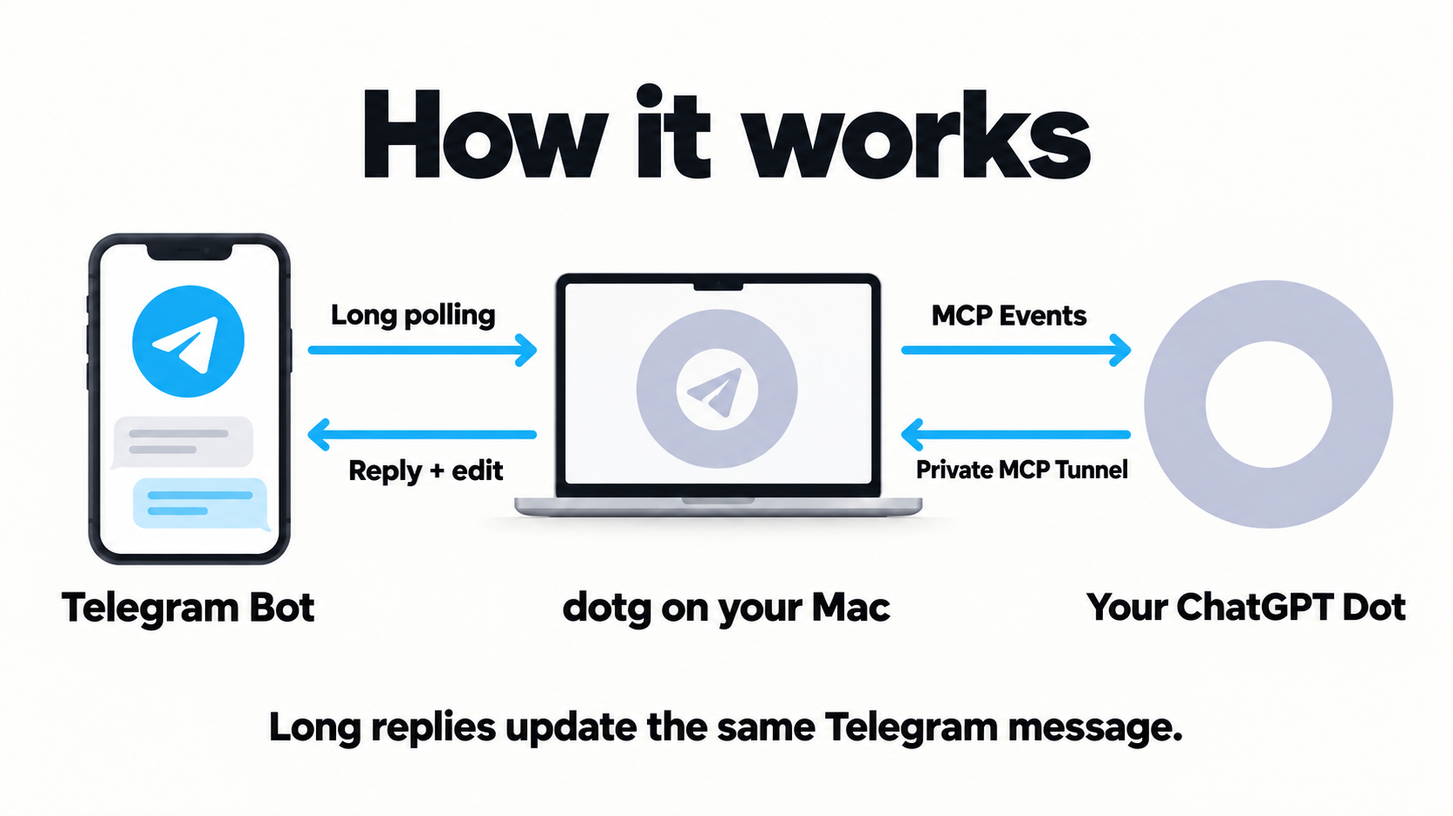
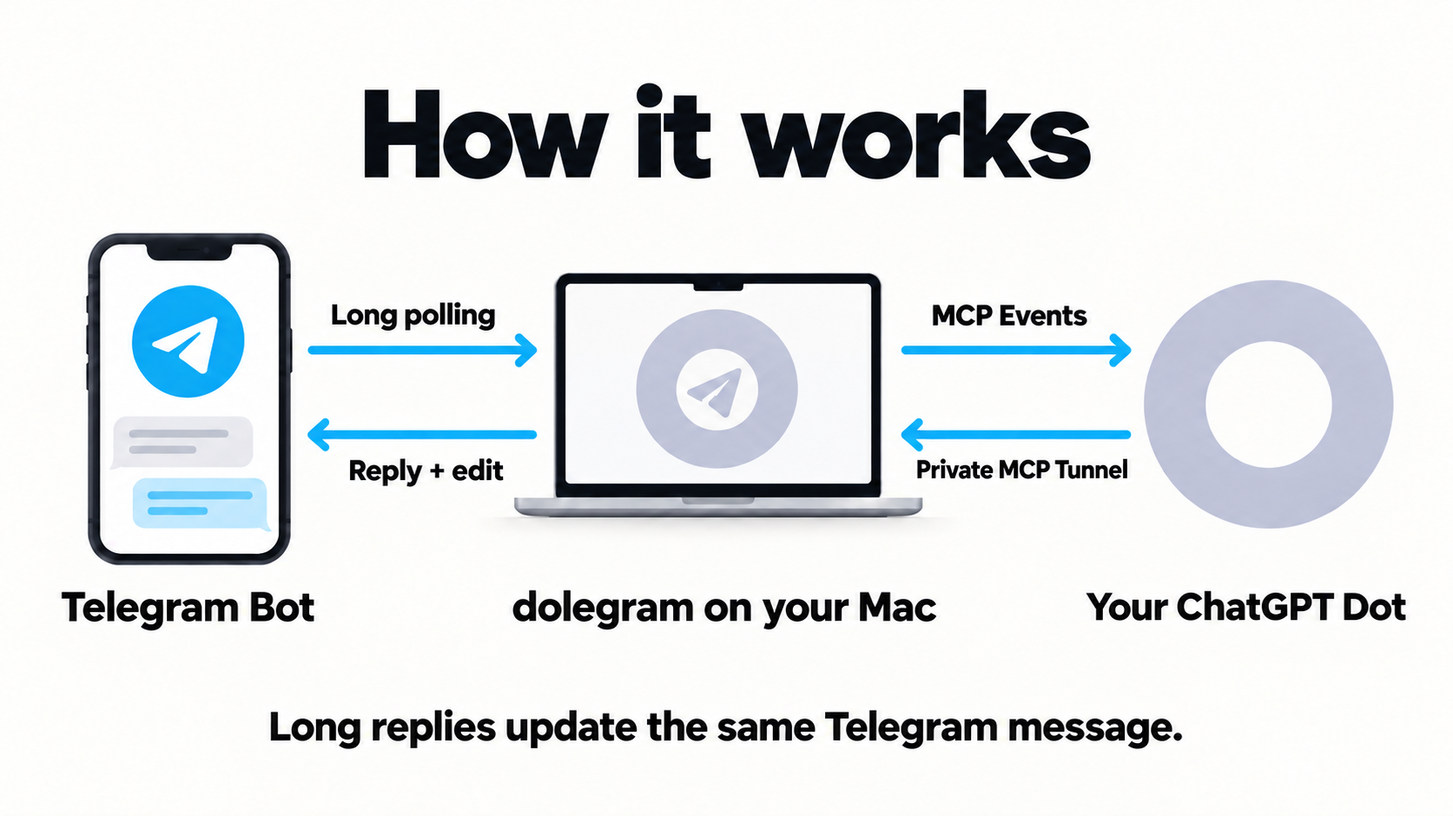
Rename the public project to dolegram with compatible runtime identities

diff --git a/scripts/prepare-plugin.py b/scripts/prepare-plugin.py
@@ -15,11 +15,11 @@ def main():
     url = urlparse(args.endpoint)
     if url.scheme != 'https' or not url.hostname or url.username or url.password or url.fragment or url.query or url.path != '/mcp' or url.hostname.endswith('.invalid') or url.port not in (None, 443):
         parser.error('Use a verified HTTPS /mcp endpoint without credentials, query, fragment, or a nonstandard port.')
-    source = Path(__file__).resolve().parent.parent / 'plugin-template' / 'dotg'
+    source = Path(__file__).resolve().parent.parent / 'plugin-template' / 'dolegram'
     output = Path(args.output)
     shutil.copytree(source, output)
     manifest = json.loads((output / 'mcp.json.example').read_text())
-    manifest['mcpServers']['dotg']['url'] = args.endpoint
+    manifest['mcpServers']['dolegram']['url'] = args.endpoint
     (output / 'mcp.json').write_text(json.dumps(manifest, indent=2) + '\n')
     (output / 'mcp.json.example').unlink()
     print('Prepared package files only. Endpoint reachability, upload, installation and subscription are not verified.')

diff --git a/TUNNEL.md b/TUNNEL.md
@@ -8,9 +8,9 @@ Live acceptance has shown variable delays between callback acceptance and the fi
 
 1. A dedicated OpenAI Secure MCP Tunnel forwards authenticated MCP JSON-RPC requests to `http://127.0.0.1:8787/mcp`.
 2. The host discovers four tools and `telegram.message.received`, then supplies a callback and signing secret through `events/subscribe`.
-3. dotg verifies that callback with a signed challenge. The Node callback transport validates and pins public DNS addresses for each connection, preserves TLS hostname verification and refuses redirects.
-4. After a separately approved consumer handover, dotg fetches Telegram messages through outbound `getUpdates`, applies the private chat allowlist and persists accepted messages, events and offsets.
-5. dotg posts signed events directly to the host callback over outbound HTTPS. This callback does not travel through the Tunnel. Dot calls the reply/edit tools through the Tunnel; dotg sends the Telegram response outbound.
+3. dolegram verifies that callback with a signed challenge. The Node callback transport validates and pins public DNS addresses for each connection, preserves TLS hostname verification and refuses redirects.
+4. After a separately approved consumer handover, dolegram fetches Telegram messages through outbound `getUpdates`, applies the private chat allowlist and persists accepted messages, events and offsets.
+5. dolegram posts signed events directly to the host callback over outbound HTTPS. This callback does not travel through the Tunnel. Dot calls the reply/edit tools through the Tunnel; dolegram sends the Telegram response outbound.
 
 The [official Tunnel guide](https://developers.openai.com/api/docs/guides/secure-mcp-tunnels) documents forwarding MCP JSON-RPC, HTTP upstreams and private ChatGPT plugin connections. The [official client dispatcher](https://github.com/openai/tunnel-client/blob/master/pkg/dispatcher/internal/processor.go) forwards request envelopes rather than implementing a tools-only method list. Together with the [MCP Events contract](https://developers.openai.com/plugins/build/mcp-events), this supports the architecture. It is not evidence of a successful live Events subscription through a particular workspace. Verify that checkpoint before enabling Telegram intake. Tunnel is not a general public HTTP ingress, and private Tunnel connections are not a public plugin distribution mechanism.
 
@@ -20,11 +20,11 @@ Run the checks in INSTALL.md and `npm run verify:local`. Use an authorized prote
 
 The helper writes only `config.local.json`, mode 0600. It refuses overwrite and makes no network calls. Bot token and MCP bearer secret remain in that ignored file; subscriptions, callback signing secrets and message state live in ignored `runtime/dotg.sqlite`, mode 0600, under a private directory. Do not put them in Git or backups shared with others. Polling mode needs no Telegram webhook secret.
 
-Start the prepared backend with `npm start`. With polling mode selected, this binds only `127.0.0.1:8787`, accepts authenticated `/mcp`, and returns 404 for `/telegram/webhook`. **Telegram intake is disabled unless `DOTG_ENABLE_POLLING=1` is explicitly set.** Existing subscription callbacks may still be delivered from the selected database; use a fresh, independent dotg database for initial setup.
+Start the prepared backend with `npm start`. With polling mode selected, this binds only `127.0.0.1:8787`, accepts authenticated `/mcp`, and returns 404 for `/telegram/webhook`. **Telegram intake is disabled unless `DOTG_ENABLE_POLLING=1` is explicitly set.** Existing subscription callbacks may still be delivered from the selected database; use a fresh, independent dolegram database for initial setup.
 
 ## Create a dedicated Tunnel only after approval
 
-Confirm the intended Platform organization and ChatGPT workspace, a dedicated dotg Tunnel identity, and their association. Do not repurpose another integration's Tunnel, key, profile, admin port or route. Creators need Tunnels Read + Manage; the runtime key and plugin operator need Read + Use. Workspace permission to add custom MCP plugins is separate.
+Confirm the intended Platform organization and ChatGPT workspace, a dedicated dolegram Tunnel identity, and their association. Do not repurpose another integration's Tunnel, key, profile, admin port or route. Creators need Tunnels Read + Manage; the runtime key and plugin operator need Read + Use. Workspace permission to add custom MCP plugins is separate.
 
 Use the official latest-release client and inspect `tunnel-client help quickstart` and `tunnel-client init --help` on that installed version. The guide documents `--mcp-server-url` for HTTP upstreams, and these verification commands:
 
@@ -35,13 +35,13 @@ tunnel-client run --profile dotg
 
 These commands require an already configured, approved profile; this repository does not fabricate a Tunnel ID, runtime key, sample name or deploy command. Set its MCP upstream to `http://127.0.0.1:8787/mcp`. Keep admin/health listeners on loopback with ports distinct from other integrations. Pass the restricted runtime key to the client in memory (`CONTROL_PLANE_API_KEY`) using its documented environment reference; never print it. Choose its lifetime explicitly with the owner. Store nonsecret profile metadata in a dedicated `~/.config/dotg-tunnel/` directory, mode 0700, with profile files mode 0600. Do not store the literal runtime key in the profile. For approved macOS Keychain storage, use the exact-item launcher in [docs/keychain.md](docs/keychain.md). Persistent startup is a separate lifecycle feature; do not claim boot/login recovery without testing it.
 
-The current ChatGPT Tunnel creation flow offers OAuth and No authentication, without a separate upstream Bearer field. An explicitly approved alternative is to select No authentication for the private Tunnel connection and have a dedicated local launcher read the existing MCP bearer into the client environment. Configure both official client `mcp.extra_headers` and `mcp.discovery_extra_headers` with `Authorization: env:DOTG_MCP_AUTHORIZATION`. The value in that environment variable includes the `Bearer ` prefix. Tunnel access remains restricted, and dotg still requires its bearer on every request. Keep the runtime key separate. Never place literal secrets in command arguments, URLs, logs, profile files or package files.
+The current ChatGPT Tunnel creation flow offers OAuth and No authentication, without a separate upstream Bearer field. An explicitly approved alternative is to select No authentication for the private Tunnel connection and have a dedicated local launcher read the existing MCP bearer into the client environment. Configure both official client `mcp.extra_headers` and `mcp.discovery_extra_headers` with `Authorization: env:DOTG_MCP_AUTHORIZATION`. The value in that environment variable includes the `Bearer ` prefix. Tunnel access remains restricted, and dolegram still requires its bearer on every request. Keep the runtime key separate. Never place literal secrets in command arguments, URLs, logs, profile files or package files.
 
 The official ChatGPT flow is Plugins → Add custom MCP server → Connection: Tunnel → select the same Tunnel → configure authentication → review and create privately. Follow the active execution environment's actual UI and credential rules; do not infer that a restriction on one tool or target forbids all local browser access. System credential prompts may require the user to act.
 
 ## Callback DNS on networks using virtual addresses
 
-Some network tools return reserved virtual addresses to applications. These must remain blocked by the callback SSRF checks. If the system resolver returns virtual addresses, configure a trusted DNS resolver only for the dotg callback transport, for example `DOTG_CALLBACK_DNS_SERVERS=1.1.1.1`. This optional comma-separated list accepts IP addresses, does not change global DNS, and sends callback hostname queries to the selected resolver. Without it, dotg uses the system resolver.
+Some network tools return reserved virtual addresses to applications. These must remain blocked by the callback SSRF checks. If the system resolver returns virtual addresses, configure a trusted DNS resolver only for the dolegram callback transport, for example `DOTG_CALLBACK_DNS_SERVERS=1.1.1.1`. This optional comma-separated list accepts IP addresses, does not change global DNS, and sends callback hostname queries to the selected resolver. Without it, dolegram uses the system resolver.
 
 Both IPv4 and IPv6 answers are checked before connecting; a private or reserved answer rejects the entire destination. Lookup failures fail closed. The transport still pins the checked address, verifies the original TLS hostname, refuses redirects, and keeps the existing request timeout. Do not allow reserved addresses or disable certificate verification to accommodate virtual DNS.
 
@@ -64,4 +64,4 @@ This starts real Telegram polling and is not a mock command. It checks `getMe` a
 
 Offsets are bound to the local owner and expected Bot ID and persist in SQLite. Acceptance commits message deduplication and its outbox before a separate cursor commit. A crash between commits can replay an update safely. Advancing the cursor confirms previously retrieved updates on the next poll, as specified by the [Telegram Bot API](https://core.telegram.org/bots/api#getupdates). Ignored unauthorized or unsupported messages are also acknowledged. Updates older than the bridge's one-day age window are ignored. Events for messages received before an active subscription are not replayed automatically; authorized unanswered messages can still be recovered from the pending list during a later event-triggered run. No negative offset or `drop_pending_updates` is used.
 
-The database lock protects one dotg instance using that database, not other programs or another database. A separate existing-consumer handover is mandatory. Roll back by stopping dotg polling, waiting for its outstanding request to abort, then restoring the previous consumer through its supported service controls. Do not delete its Bot, configuration or credentials. Already acknowledged Telegram updates cannot be restored to the old consumer; preserve the private dotg database and reconcile any uncertain reply before resuming. If the trial is abandoned, stop the dedicated Tunnel process and revoke its temporary host subscription after restoring the previous consumer. If the user wants the connection to remain active, preserve the verified subscription and running processes within the approved credential lifetime. Do not renew or broaden credentials without authorization, and do not change other tunnels.
+The database lock protects one dolegram instance using that database, not other programs or another database. A separate existing-consumer handover is mandatory. Roll back by stopping dolegram polling, waiting for its outstanding request to abort, then restoring the previous consumer through its supported service controls. Do not delete its Bot, configuration or credentials. Already acknowledged Telegram updates cannot be restored to the old consumer; preserve the private dolegram database and reconcile any uncertain reply before resuming. If the trial is abandoned, stop the dedicated Tunnel process and revoke its temporary host subscription after restoring the previous consumer. If the user wants the connection to remain active, preserve the verified subscription and running processes within the approved credential lifetime. Do not renew or broaden credentials without authorization, and do not change other tunnels.

diff --git a/README.md b/README.md
@@ -1,18 +1,18 @@
-# dotg
+# dolegram
 
 <p align="center">
-  <img src="docs/assets/dotg-logo.png" alt="dotg — the Dot ring with a Telegram paper plane" width="560">
+  <img src="docs/assets/dolegram-logo.png" alt="dolegram — the Dot ring with a Telegram paper plane" width="560">
 </p>
 
-Talk to your existing ChatGPT Dot from Telegram. Ask a question, send an idea, or pick up a conversation with your personal assistant through your own Bot. Longer answers grow in the same message, keeping your chat easy to follow.
+Use ChatGPT Dot in Telegram. Ask a question, send an idea, or pick up a conversation with your personal assistant through your own Bot. Longer answers grow in the same message, keeping your chat easy to follow.
 
 **v0.1.0 Public Beta.** The core flow has been tested on one installation. Setup requires access to ChatGPT private Tunnels and MCP Events; availability depends on your account. See [release notes](CHANGELOG.md) for verified behavior and current limits.
 
 ## Install with your Agent
 
 ```text
-Read https://github.com/vingeraycn/dotg/blob/main/docs/desktop-install.md
-and install dotg on this Mac for my Telegram Bot and existing ChatGPT Dot.
+Read https://github.com/vingeraycn/dolegram/blob/main/docs/desktop-install.md
+and install dolegram on this Mac for my Telegram Bot and existing ChatGPT Dot.
 First explain which actions require me, then complete the setup using
 local tools and Computer Use. Reuse existing resources, protect secrets,
 preserve rollback, and verify a real reply and in-place message updates.
@@ -29,17 +29,21 @@ Paste this into Codex or ChatGPT Work with access to your Mac. Your Agent handle
 
 ## How it works
 
-![How dotg works: Telegram sends messages to dotg on your Mac through long polling; signed MCP Events reach Dot, whose tool calls return through a private MCP Tunnel so dotg can reply and edit the Telegram message.](docs/assets/how-it-works.png)
+![How dolegram works: Telegram sends messages to dolegram on your Mac through long polling; signed MCP Events reach Dot, whose tool calls return through a private MCP Tunnel so dolegram can reply and edit the Telegram message.](docs/assets/how-it-works.png)
 
-1. **Send a message in Telegram.** dotg on your Mac retrieves messages from your Bot and checks the private-chat allowlist.
-2. **Your Dot receives an event.** dotg forwards the message through signed MCP Events. Dot reads it and prepares a reply.
-3. **The reply comes back to your chat.** Dot calls dotg's tools through a private MCP Tunnel. dotg sends the reply through Telegram's Bot API and edits the same message for longer answers.
+1. **Send a message in Telegram.** dolegram on your Mac retrieves messages from your Bot and checks the private-chat allowlist.
+2. **Your Dot receives an event.** dolegram forwards the message through signed MCP Events. Dot reads it and prepares a reply.
+3. **The reply comes back to your chat.** Dot calls dolegram's tools through a private MCP Tunnel. dolegram sends the reply through Telegram's Bot API and edits the same message for longer answers.
 
 No public Telegram webhook, domain or inbound port is needed for this Mac route. Messages are processed by Telegram and ChatGPT, with private state stored on your Mac; see [data handling](docs/privacy.md).
 
 The Mac must remain available. Dot's scheduling can add variable delay, and message updates are cumulative chunks rather than token-by-token streaming. An opt-in [macOS login service](docs/service.md) is available; unattended recovery still depends on the owner's Keychain policy and must be tested on the installation.
 
 The private Mac route has passed live discovery, Events subscription, short reply, cumulative edit, successful retry, backend restart, and managed Tunnel crash-recovery checks. This is a low-volume, single-owner service. Unattended boot/login recovery, every account configuration, and predictable response latency are not established.
+
+## Existing installations
+
+Previously named **dotg**. Existing installations keep their `DOTG_*` environment variables, `io.dotg.*` service labels, `dotg` Tunnel profile, database paths and Keychain items. Do not rename or recreate those resources to match the new brand. See [compatibility notes](docs/rename.md).
 
 ## Guides
 
@@ -58,4 +62,4 @@ The private Mac route has passed live discovery, Events subscription, short repl
 
 The [portable plugin template](PLUGIN.md) is for a separately hosted HTTPS backend. Its placeholder is deliberately not installable and is not a Tunnel package. The [Sites adapter](sites/README.md) is source-only with production callback delivery disabled; it is not the supported onboarding route.
 
-Licensed under [MIT](LICENSE), with [third-party notices](THIRD_PARTY_NOTICES.md) for runtime dependencies. dotg is an independent project and is not affiliated with OpenAI or Telegram. Third-party names and marks remain the property of their respective owners.
+Licensed under [MIT](LICENSE), with [third-party notices](THIRD_PARTY_NOTICES.md) for runtime dependencies. dolegram is an independent project and is not affiliated with OpenAI or Telegram. Third-party names and marks remain the property of their respective owners.

diff --git a/OPERATIONS.md b/OPERATIONS.md
@@ -1,4 +1,4 @@
-# Operate dotg
+# Operate dolegram
 
 Keep an ignored local record of checkout, Node/client versions, runtime directory, process IDs, credential expiration, connection, subscription, and previous-consumer resume command. Do not store secret values in the record.
 
@@ -31,10 +31,10 @@ Use the real host's `get_bridge_status` to check subscription status, received m
 ## Clean restart and upgrade
 
 1. Run automated checks on the reviewed source. Prepare a separate versioned release directory with its own locked dependencies (`npm ci --ignore-scripts`); preserve the previous release and nonsecret launch configuration. Do not run production from a checkout being edited, or share its mutable `node_modules` directory: an automatic restart could otherwise load unreviewed changes.
-2. Send SIGTERM to the exact dotg backend. It aborts long polling and activity requests, waits for in-flight callback and HTTP work, closes SQLite, and releases its lock.
+2. Send SIGTERM to the exact dolegram backend. It aborts long polling and activity requests, waits for in-flight callback and HTTP work, closes SQLite, and releases its lock.
 3. Verify the process and listener are gone. Current releases use an OS-managed `.lease`; its file remains after exit and must never be deleted. A legacy `.lock` blocks the new launcher until the old backend stops cleanly. Never delete an active lock or start a second poller to force recovery.
 4. Create and verify a [private snapshot](docs/backup.md). The supplied tool also supports an online backup before shutdown; preserve a final snapshot at handover when possible. It contains messages, callback secrets, and reply state; do not upload it. A live SQLite copy requires SQLite's backup mechanism, not a casual file copy.
-5. Start the reviewed backend with the same owner, configuration and database. Retain `DOTG_ENABLE_POLLING=1` only if dotg is the approved consumer. Verify host tool access and perform an authorized real smoke test.
+5. Start the reviewed backend with the same owner, configuration and database. Retain `DOTG_ENABLE_POLLING=1` only if dolegram is the approved consumer. Verify host tool access and perform an authorized real smoke test.
 
 For read-only diagnosis use SQLite read-only mode. Do not instantiate the application's `Store` on a live database: its startup recovery changes pending writes to uncertain. Do not edit production state to make a test pass.
 
@@ -44,7 +44,7 @@ Restoring an old database is a separate operation from rolling back code. Use [s
 
 ## Uncertain writes and partial answers
 
-A Telegram timeout may mean the message was sent even though the response was lost. dotg records uncertain state and blocks new writes to prevent duplicates. The [offline reconciliation tool](docs/reconciliation.md) can record an independently observed successful reply, after exact evidence matching and a verified pre-change snapshot. It refuses a running backend and never resends or infers non-delivery. Do not clear state or invent a message ID.
+A Telegram timeout may mean the message was sent even though the response was lost. dolegram records uncertain state and blocks new writes to prevent duplicates. The [offline reconciliation tool](docs/reconciliation.md) can record an independently observed successful reply, after exact evidence matching and a verified pre-change snapshot. It refuses a running backend and never resends or infers non-delivery. Do not clear state or invent a message ID.
 
 A confirmed sent nonfinal answer can resume from `read_telegram_message`'s exact `reply.text`, `reply.messageId` and revision. Follow [the handler contract](docs/dot-task.md). A rate-limited rejected write may retry after its deadline; an uncertain write may not.
 
@@ -56,6 +56,6 @@ All accepted messages and reply/deduplication state remain in the database. Stor
 
 ## Rollback to the previous consumer
 
-Stop dotg and wait for its outstanding poll to abort. Verify it has stopped before resuming the previous consumer using its recorded supported control. Keep that consumer's configuration intact throughout the trial; do not stop unrelated services. Preserve dotg's private database and reconcile uncertain replies. Telegram updates already acknowledged by dotg cannot be restored to the old consumer.
+Stop dolegram and wait for its outstanding poll to abort. Verify it has stopped before resuming the previous consumer using its recorded supported control. Keep that consumer's configuration intact throughout the trial; do not stop unrelated services. Preserve dolegram's private database and reconcile uncertain replies. Telegram updates already acknowledged by dolegram cannot be restored to the old consumer.
 
-If retiring dotg, remove its host subscription and stop only its dedicated Tunnel after the previous consumer is verified. Credential revocation and removal of private data are separate owner-authorized actions.
+If retiring dolegram, remove its host subscription and stop only its dedicated Tunnel after the previous consumer is verified. Credential revocation and removal of private data are separate owner-authorized actions.

diff --git a/docs/privacy.md b/docs/privacy.md
@@ -1,21 +1,21 @@
 # Data handling and publication privacy
 
-This describes the supported local Mac route. dotg is not offline: Telegram and the connected ChatGPT host process conversation data.
+This describes the supported local Mac route. dolegram is not offline: Telegram and the connected ChatGPT host process conversation data.
 
 | Destination | Data and purpose |
 | --- | --- |
 | Telegram Bot API | The Bot token authenticates requests to Telegram. Intake retrieves messages; replies, edits, drafts and chat actions target the allowlisted private chat. |
 | Host-provided MCP Events callback | Signed events include the message key, private chat ID and full incoming text. A signature is transmitted, not the signing secret. |
 | ChatGPT through the private MCP Tunnel | Authorized tools return message content, identifiers, timestamps and stored reply state, and accept reply text. |
-| Local configuration | Bot token, independent MCP bearer, owner and allowlist in an owner-only file. dotg does not encrypt this file. |
-| Local SQLite database | Messages, replies, delivery state, callback URLs and subscription signing secrets. File permissions protect access; dotg does not encrypt the database. |
+| Local configuration | Bot token, independent MCP bearer, owner and allowlist in an owner-only file. dolegram does not encrypt this file. |
+| Local SQLite database | Messages, replies, delivery state, callback URLs and subscription signing secrets. File permissions protect access; dolegram does not encrypt the database. |
 | macOS Keychain | The approved Tunnel runtime key when using the dedicated launcher. Other configuration and messages are not automatically stored in Keychain. |
 
 The launcher passes the approved runtime key and upstream bearer in the dedicated client's process environment. They are not command-line literals, but remain sensitive process memory. Protect the local account and runtime. Application source has no separate analytics integration; this does not establish the behavior or retention policies of Telegram, ChatGPT, the Tunnel client, browser or operating system.
 
 Callback transport validates public HTTPS destinations, rejects redirects, pins DNS results and verifies TLS hostnames. A custom DNS resolver, if configured, receives hostname lookups, not message bodies. Only create subscriptions through the intended host. Backend bearer possession grants privileged access; callback validation does not replace credential protection.
 
-Retention and backups are manual. The [snapshot tool](backup.md) creates private plaintext database copies containing the same sensitive data; configuration and Keychain credentials are excluded. It never uploads snapshots or silently deletes them. Keep configuration, database, installation notes and backups out of Git and sharing workflows. Deleting a Telegram conversation does not automatically delete local dotg records. Read [OPERATIONS.md](../OPERATIONS.md) before cleanup that could affect deduplication or reply recovery.
+Retention and backups are manual. The [snapshot tool](backup.md) creates private plaintext database copies containing the same sensitive data; configuration and Keychain credentials are excluded. It never uploads snapshots or silently deletes them. Keep configuration, database, installation notes and backups out of Git and sharing workflows. Deleting a Telegram conversation does not automatically delete local dolegram records. Read [OPERATIONS.md](../OPERATIONS.md) before cleanup that could affect deduplication or reply recovery.
 
 ## Before publication
 

diff --git a/INSTALL.md b/INSTALL.md
@@ -1,4 +1,4 @@
-# Install dotg with an Agent
+# Install dolegram with an Agent
 
 For Codex or ChatGPT desktop, start with [Desktop Agent installation](docs/desktop-install.md): check actual local capabilities and explain necessary owner participation first. Return here for the installation procedure.
 
@@ -8,7 +8,7 @@ This guide is for an Agent operating on the owner's Mac. Complete the authorized
 
 Success means an allowlisted Telegram message reaches the existing Dot and receives a real Bot reply, with a long answer edited in place. A healthy backend, Tunnel, installed connection, or accepted callback alone is not success.
 
-Use one Bot consumer, one dotg database, one dedicated Tunnel profile, and one existing or newly authorized private connection. Keep the previous consumer and a rollback path. Never publish the repository, expose the backend, widen access, or replace the user's existing model/integration as an installation shortcut.
+Use one Bot consumer, one dolegram database, one dedicated Tunnel profile, and one existing or newly authorized private connection. Keep the previous consumer and a rollback path. Never publish the repository, expose the backend, widen access, or replace the user's existing model/integration as an installation shortcut.
 
 ## 1. Inspect and record the starting point
 
@@ -19,8 +19,8 @@ Confirm only information that cannot be obtained from authorized local sources: 
 For a fresh checkout:
 
 ```sh
-git clone https://github.com/vingeraycn/dotg.git
-cd dotg
+git clone https://github.com/vingeraycn/dolegram.git
+cd dolegram
 npm ci --ignore-scripts
 npm run check
 npm test
@@ -72,13 +72,13 @@ Verify through the real host: discovery, all four tools, `events/list`, a safe t
 
 ## 5. Hand over exactly one consumer
 
-Prepare the supported stop/resume actions for the old Telegram consumer and identify any effects on shared services. Reuse existing authorization; ask only for an additional material effect. Pause that consumer without deleting its configuration. Confirm it has stopped, then restart dotg with:
+Prepare the supported stop/resume actions for the old Telegram consumer and identify any effects on shared services. Reuse existing authorization; ask only for an additional material effect. Pause that consumer without deleting its configuration. Confirm it has stopped, then restart dolegram with:
 
 ```sh
 DOTG_ENABLE_POLLING=1 npm start
 ```
 
-Never run two `getUpdates` consumers to test which one wins. dotg checks Bot identity and empty webhook status before polling, and stops intake on mismatch, rejected credentials, a webhook, or a Telegram conflict. It never deletes webhooks or drops pending updates. Follow [OPERATIONS.md](OPERATIONS.md) if intake stops.
+Never run two `getUpdates` consumers to test which one wins. dolegram checks Bot identity and empty webhook status before polling, and stops intake on mismatch, rejected credentials, a webhook, or a Telegram conflict. It never deletes webhooks or drops pending updates. Follow [OPERATIONS.md](OPERATIONS.md) if intake stops.
 
 ## 6. Perform real acceptance
 

diff --git a/MAC_TEST.md b/MAC_TEST.md
@@ -15,7 +15,7 @@ Do not tunnel the synthetic bridge used internally by `verify:local`. Public rea
 
 ## Existing routes must not be repurposed
 
-Inspect only the selected service configuration's nonsecret ingress metadata, never certificate or credential-file contents. Existing named tunnels may expose unrelated applications. If no running, appropriately scoped route exists, do not restart a multi-service tunnel, repurpose its hostname, change its DNS, or read its stored credentials merely to get dotg online.
+Inspect only the selected service configuration's nonsecret ingress metadata, never certificate or credential-file contents. Existing named tunnels may expose unrelated applications. If no running, appropriately scoped route exists, do not restart a multi-service tunnel, repurpose its hostname, change its DNS, or read its stored credentials merely to get dolegram online.
 
 For this test, the proposed fallback is a new, temporary accountless Quick Tunnel with a dedicated empty configuration. This does not require buying hosting or a domain, using an existing account certificate, or manually creating an API token. Cloudflared negotiates transient tunnel credentials in memory. Starting it is still a new public network path and requires explicit confirmation.
 
@@ -28,7 +28,7 @@ For this test, the proposed fallback is a new, temporary accountless Quick Tunne
 | Active application routes | `POST /mcp` and `POST /telegram/webhook`; all unrelated paths and methods return 404. |
 | Reachability-only phase | Both recognized routes return 401 unconditionally; there are no credentials or Bot actions. |
 | Live phase, separately approved | `/mcp` requires the MCP bearer secret; Telegram intake requires its configured secret header and explicit private allowlist. |
-| Diagnostics | Cloudflared metrics bind to `127.0.0.1` on an ephemeral port; management diagnostics are disabled and never routed by dotg. |
+| Diagnostics | Cloudflared metrics bind to `127.0.0.1` on an ephemeral port; management diagnostics are disabled and never routed by dolegram. |
 | Other local services | DSH, model gateways, existing tunnel origins and the rest of the Mac are not forwarded. |
 
 Cloudflare terminates the public HTTPS connection and proxies the requests through its encrypted tunnel to local HTTP. That third-party processing scope is part of the approval. This path does not require an inbound router port-forward or disabling a firewall. If outbound connectivity is blocked, report the exact failed connection instead of changing network security settings.

diff --git a/docs/reconciliation.md b/docs/reconciliation.md
@@ -1,6 +1,6 @@
 # Reconcile a reply observed in Telegram
 
-A transport timeout cannot tell dotg whether Telegram accepted a write. The backend blocks that message rather than send a possible duplicate. This offline tool supports one recovery case: an authorized operator independently finds the exact Bot reply in Telegram and records the successful outcome. It never sends, edits, deletes, infers that a missing reply was not sent, or clears a blocked intent for retry.
+A transport timeout cannot tell dolegram whether Telegram accepted a write. The backend blocks that message rather than send a possible duplicate. This offline tool supports one recovery case: an authorized operator independently finds the exact Bot reply in Telegram and records the successful outcome. It never sends, edits, deletes, infers that a missing reply was not sent, or clears a blocked intent for retry.
 
 This procedure is for the standalone polling installation, using Python 3.11 or newer. It is not a Sites/D1 repair tool. Synthetic tests cover an actual SQLite snapshot, exclusive lease, refusal paths, and the real Bridge's successful retry and next-edit behavior. Production ambiguous-write recovery has not been exercised deliberately.
 
@@ -21,7 +21,7 @@ python3 scripts/reconcile.py inspect \
 
 Inspection is read-only and can run while the backend is active. The output is mode 0600 and must not already exist. It contains private reply text and identifiers: do not commit, upload or paste it into chat. The command prints only fixed guidance. It does not open the application Store or convert pending operations into uncertain ones.
 
-The file contains a `reference` copied from stored intent, a fingerprint of the original message state, and `observed: null`. **Reference data proves only what dotg attempted. It does not prove what Telegram received.**
+The file contains a `reference` copied from stored intent, a fingerprint of the original message state, and `observed: null`. **Reference data proves only what dolegram attempted. It does not prove what Telegram received.**
 
 ## 2. Independently verify the reply
 

diff --git a/PLUGIN.md b/PLUGIN.md
@@ -6,10 +6,10 @@ The backend alone is not a completed cloud plugin installation. Hosting, account
 
 The [official plugin package guide](https://developers.openai.com/plugins/build/plugins) and Plugin Creator package requirements define portable Agent Plugins 1.0 packages with root `plugin.json`, `mcp.json`, and `skills/`. MCP authentication belongs in each server's `extensions.com.openai.auth`; a fixed bearer secret uses `type: api_key` and `headerScheme: bearer`. Credentials must never be included in the package.
 
-`plugin-template/dotg/` contains a manifest, the response workflow skill, and an explicitly noninstallable `mcp.json.example`. A real endpoint is intentionally absent because this template is not bound to a public deployment. After a separately authorized deployment and independent endpoint verification, the Agent can prepare package files with the implemented helper:
+`plugin-template/dolegram/` contains a manifest, the response workflow skill, and an explicitly noninstallable `mcp.json.example`. A real endpoint is intentionally absent because this template is not bound to a public deployment. After a separately authorized deployment and independent endpoint verification, the Agent can prepare package files with the implemented helper:
 
 ```sh
-python3 scripts/prepare-plugin.py --endpoint https://YOUR_VERIFIED_HOST/mcp --output plugin-build/dotg
+python3 scripts/prepare-plugin.py --endpoint https://YOUR_VERIFIED_HOST/mcp --output plugin-build/dolegram
 ```
 
 Replace the uppercase placeholder with the verified backend hostname first. The helper refuses invalid placeholder domains and existing output directories, adds `mcp.json`, and does not contact, deploy, upload, or install anything. Its endpoint syntax validation does not prove ownership, reachability or TLS safety; those must already have been checked. The output is ignored by Git.
@@ -17,7 +17,7 @@ Replace the uppercase placeholder with the verified backend hostname first. The 
 The resulting package layout is:
 
 ```text
-dotg/
+dolegram/
   plugin.json
   mcp.json
   skills/telegram-response/SKILL.md

diff --git a/docs/desktop-install.md b/docs/desktop-install.md
@@ -1,10 +1,10 @@
 # Desktop Agent installation
 
-Use this entry point in Codex or ChatGPT Work on the Mac that will run dotg. Computer Use helps with account pages and Telegram; local execution handles configuration, processes and checks. This is an Agent runbook, not a shipped unattended installer.
+Use this entry point in Codex or ChatGPT Work on the Mac that will run dolegram. Computer Use helps with account pages and Telegram; local execution handles configuration, processes and checks. This is an Agent runbook, not a shipped unattended installer.
 
 ## One prompt
 
-> Read https://github.com/vingeraycn/dotg/blob/main/docs/desktop-install.md and install dotg on this Mac for my Telegram Bot and existing Dot. First check your available local tools and explain the specific actions you will need from me. Then use local tools and Computer Use to complete the authorized setup, reuse existing resources, protect secrets, preserve rollback, and verify a real Telegram reply and in-place edits. Continue automatically after each required user action; do not hand me configuration steps you can safely complete.
+> Read https://github.com/vingeraycn/dolegram/blob/main/docs/desktop-install.md and install dolegram on this Mac for my Telegram Bot and existing Dot. First check your available local tools and explain the specific actions you will need from me. Then use local tools and Computer Use to complete the authorized setup, reuse existing resources, protect secrets, preserve rollback, and verify a real Telegram reply and in-place edits. Continue automatically after each required user action; do not hand me configuration steps you can safely complete.
 
 Private repository access is currently required. The Mac must stay available while the service runs. An opt-in [login service](service.md) can manage processes after login; locked or confirmation-only Keychain access can prevent automatic Tunnel recovery. Explain and test these conditions before promising unattended operation. Host features and scheduling vary by account, and no fixed response time is promised.
 

diff --git a/docs/release-readiness.md b/docs/release-readiness.md
@@ -29,7 +29,7 @@ An opt-in [macOS service manager](service.md), crash-safe runtime lease and noni
 
 The launcher provides exact-item access preflight without starting a client. Check background access before replacing a working Tunnel; when unavailable, preserve the current connection and explain the owner-controlled access requirement. Foreground approval and unattended access are distinct evidence levels.
 
-For sustained usage, design bounded retention that preserves deduplication and reply recovery. [Offline reconciliation](reconciliation.md) now supports independently observed successful replies with a verified snapshot and exclusive lease; absence inference, automatic resend and arbitrary state repairs remain unsupported. Measure local receipt-to-callback and callback-to-read intervals separately before optimizing scheduling; host-internal delays have no established dotg control.
+For sustained usage, design bounded retention that preserves deduplication and reply recovery. [Offline reconciliation](reconciliation.md) now supports independently observed successful replies with a verified snapshot and exclusive lease; absence inference, automatic resend and arbitrary state repairs remain unsupported. Measure local receipt-to-callback and callback-to-read intervals separately before optimizing scheduling; host-internal delays have no established dolegram control.
 
 Private [online snapshots and staged recovery](backup.md) are implemented with integrity/checksum verification, bounded copying, exclusive destinations and fresh-subscription startup gates. Restoring a snapshot still requires comparison with newer local and external state; incomplete replies/deliveries cannot be approved automatically. Backup scheduling, owner-approved retention and broader reconciliation remain open. Run production from a versioned release with independent locked dependencies so development edits cannot enter a crash restart.
 

diff --git a/docs/rename.md b/docs/rename.md
@@ -1,0 +1,21 @@
+# Renaming dotg to dolegram
+
+The public project is now **dolegram**: Use ChatGPT Dot in Telegram.
+
+The canonical repository is https://github.com/vingeraycn/dolegram. Update existing Git remotes to that URL when convenient. Public documentation, the npm package name and the separately hosted HTTPS plugin template use dolegram. The original v0.1.0 tag is preserved; use the default branch for current branding and guides.
+
+## Existing installations
+
+This is a branding change, not a runtime migration. Keep these identifiers unchanged for both existing installations and the current setup scripts:
+
+- `DOTG_*` environment variables and configuration schema.
+- `io.dotg.backend` and `io.dotg.tunnel` launchd labels.
+- The `dotg` Tunnel profile and existing host connection identity.
+- The default `runtime/dotg.sqlite` database path, SQLite table names and `dotg-snapshot` backup format.
+- Existing Keychain service/account, trusted launcher executable and its code signature.
+
+Operator messages and some internal names may still say dotg. Do not rebuild or replace an approved Keychain launcher, recreate a connection, rename runtime directories, or start another Telegram consumer just to match the new name. No credentials, subscriptions or message data need migration. The unchanged service labels intentionally prevent the branding change from installing a second managed consumer.
+
+## Portable plugin template
+
+The separate HTTPS packaging helper now reads `plugin-template/dolegram/` and emits a server named `dolegram`. This template remains noninstallable until an independently verified HTTPS endpoint is supplied. It does not modify an existing private Tunnel connection; keep that connection and its event subscription intact.
